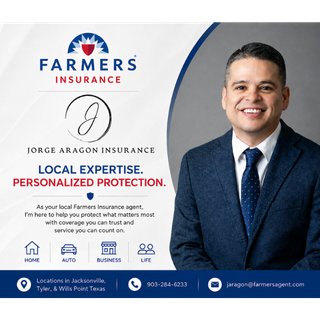
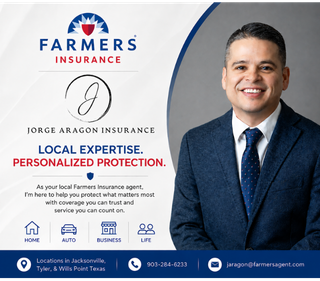
Crop Farmers card, add Board of Directors section
Crop the transparent rounded-corner padding baked into the Farmers
Insurance source image and resize its frame to match the new aspect
ratio exactly, so it fills edge-to-edge with zero cropping.

Add a Board of Directors section between Giving and Champion
Sponsors: nine board members with titles, a divider, and the two
Co-Executive Directors, fully bilingual.

diff --git a/index.html b/index.html
@@ -220,6 +220,71 @@
     </div>
   </section>
 
+  <!-- BOARD OF DIRECTORS -->
+  <section class="section section-alt">
+    <div class="container">
+      <div class="section-head">
+        <span class="eyebrow" data-es="Liderazgo">Leadership</span>
+        <h2 data-es="Junta Directiva">Board of Directors</h2>
+      </div>
+      <div class="board-grid">
+        <div class="board-card">
+          <span class="avatar"><svg width="22" height="22" viewBox="0 0 24 24" fill="none" stroke="currentColor" stroke-width="2"><circle cx="12" cy="8" r="4"/><path d="M4 21a8 8 0 0 1 16 0"/></svg></span>
+          <div><h4>Aaron Martinez</h4><span data-es="Presidente">President</span></div>
+        </div>
+        <div class="board-card">
+          <span class="avatar"><svg width="22" height="22" viewBox="0 0 24 24" fill="none" stroke="currentColor" stroke-width="2"><circle cx="12" cy="8" r="4"/><path d="M4 21a8 8 0 0 1 16 0"/></svg></span>
+          <div><h4>Christie Vazquez</h4><span data-es="Tesorera">Treasurer</span></div>
+        </div>
+        <div class="board-card">
+          <span class="avatar"><svg width="22" height="22" viewBox="0 0 24 24" fill="none" stroke="currentColor" stroke-width="2"><circle cx="12" cy="8" r="4"/><path d="M4 21a8 8 0 0 1 16 0"/></svg></span>
+          <div><h4>Crystal Yañez</h4><span data-es="Secretaria">Secretary</span></div>
+        </div>
+        <div class="board-card">
+          <span class="avatar"><svg width="22" height="22" viewBox="0 0 24 24" fill="none" stroke="currentColor" stroke-width="2"><circle cx="12" cy="8" r="4"/><path d="M4 21a8 8 0 0 1 16 0"/></svg></span>
+          <div><h4>Mike Gentry</h4><span data-es="Miembro de la Junta">Officer</span></div>
+        </div>
+        <div class="board-card">
+          <span class="avatar"><svg width="22" height="22" viewBox="0 0 24 24" fill="none" stroke="currentColor" stroke-width="2"><circle cx="12" cy="8" r="4"/><path d="M4 21a8 8 0 0 1 16 0"/></svg></span>
+          <div><h4>Cris Berlingeri</h4><span data-es="Miembro de la Junta">Officer</span></div>
+        </div>
+        <div class="board-card">
+          <span class="avatar"><svg width="22" height="22" viewBox="0 0 24 24" fill="none" stroke="currentColor" stroke-width="2"><circle cx="12" cy="8" r="4"/><path d="M4 21a8 8 0 0 1 16 0"/></svg></span>
+          <div><h4>Angela Daniels</h4><span data-es="Miembro de la Junta">Officer</span></div>
+        </div>
+        <div class="board-card">
+          <span class="avatar"><svg width="22" height="22" viewBox="0 0 24 24" fill="none" stroke="currentColor" stroke-width="2"><circle cx="12" cy="8" r="4"/><path d="M4 21a8 8 0 0 1 16 0"/></svg></span>
+          <div><h4>Cindy García</h4><span data-es="Miembro de la Junta">Officer</span></div>
+        </div>
+        <div class="board-card">
+          <span class="avatar"><svg width="22" height="22" viewBox="0 0 24 24" fill="none" stroke="currentColor" stroke-width="2"><circle cx="12" cy="8" r="4"/><path d="M4 21a8 8 0 0 1 16 0"/></svg></span>
+          <div><h4>Juan Ovalle</h4><span data-es="Miembro de la Junta">Officer</span></div>
+        </div>
+        <div class="board-card">
+          <span class="avatar"><svg width="22" height="22" viewBox="0 0 24 24" fill="none" stroke="currentColor" stroke-width="2"><circle cx="12" cy="8" r="4"/><path d="M4 21a8 8 0 0 1 16 0"/></svg></span>
+          <div><h4>Ginger Young</h4><span data-es="Miembro de la Junta">Officer</span></div>
+        </div>
+      </div>
+
+      <div class="board-divider" aria-hidden="true"><span>&middot;</span></div>
+
+      <div class="section-head">
+        <span class="eyebrow" data-es="Liderazgo Ejecutivo">Executive Leadership</span>
+        <h3 data-es="Co-Directoras Ejecutivas">Co-Executive Directors</h3>
+      </div>
+      <div class="board-co-directors">
+        <div class="board-card">
+          <span class="avatar"><svg width="22" height="22" viewBox="0 0 24 24" fill="none" stroke="currentColor" stroke-width="2"><circle cx="12" cy="8" r="4"/><path d="M4 21a8 8 0 0 1 16 0"/></svg></span>
+          <div><h4>Lorena Rebagliati</h4><span data-es="Co-Directora Ejecutiva">Co-Executive Director</span></div>
+        </div>
+        <div class="board-card">
+          <span class="avatar"><svg width="22" height="22" viewBox="0 0 24 24" fill="none" stroke="currentColor" stroke-width="2"><circle cx="12" cy="8" r="4"/><path d="M4 21a8 8 0 0 1 16 0"/></svg></span>
+          <div><h4>Josefina Vazquez</h4><span data-es="Co-Directora Ejecutiva">Co-Executive Director</span></div>
+        </div>
+      </div>
+    </div>
+  </section>
+
   <!-- CHAMPION SPONSORS -->
   <section class="section sponsors">
     <div class="container">
@@ -230,12 +295,12 @@
     </div>
     <div class="marquee-wrap">
       <div class="marquee marquee--3">
-        <img class="marquee__item marquee__item--cover" src="assets/img/sponsor-farmers-jorge-aragon.png" width="180" height="180" alt="Farmers Insurance — Jorge Aragon Insurance">
+        <img class="marquee__item marquee__item--cover" src="assets/img/sponsor-farmers-jorge-aragon.png" width="205" height="180" alt="Farmers Insurance — Jorge Aragon Insurance">
         <img class="marquee__item" src="assets/img/sponsor-flowers-davis-immigration.png" width="260" height="180" alt="Flowers Davis Immigration">
         <img class="marquee__item" src="assets/img/sponsor-prosperity-bank.png" width="260" height="180" alt="Prosperity Bank">
       </div>
       <div class="marquee marquee--3 marquee--omega" aria-hidden="true">
-        <img class="marquee__item marquee__item--cover" src="assets/img/sponsor-farmers-jorge-aragon.png" width="180" height="180" alt="">
+        <img class="marquee__item marquee__item--cover" src="assets/img/sponsor-farmers-jorge-aragon.png" width="205" height="180" alt="">
         <img class="marquee__item" src="assets/img/sponsor-flowers-davis-immigration.png" width="260" height="180" alt="">
         <img class="marquee__item" src="assets/img/sponsor-prosperity-bank.png" width="260" height="180" alt="">
       </div>

diff --git a/assets/css/style.css b/assets/css/style.css
@@ -651,6 +651,69 @@ a { color: var(--color-teal); }
   .banner-track { animation: none; }
 }
 
+/* ---------- Board of directors ---------- */
+.section-head h3 { font-size: clamp(1.25rem, 2.1vw, 1.5rem); }
+.board-grid {
+  display: grid;
+  grid-template-columns: repeat(3, 1fr);
+  gap: 20px;
+}
+.board-card {
+  display: flex;
+  align-items: center;
+  gap: 14px;
+  background: var(--color-white);
+  border: 1px solid var(--color-border);
+  border-radius: var(--radius-md);
+  padding: 16px 20px;
+  box-shadow: var(--shadow-card);
+}
+.board-card .avatar {
+  flex: none;
+  width: 46px;
+  height: 46px;
+  border-radius: 50%;
+  background: var(--color-cream-deep);
+  color: var(--color-teal);
+  display: flex;
+  align-items: center;
+  justify-content: center;
+}
+.board-card h4 { margin: 0; font-size: 1rem; }
+.board-card span {
+  display: block;
+  font-family: var(--font-heading);
+  font-weight: 700;
+  font-size: 0.72rem;
+  letter-spacing: 0.06em;
+  text-transform: uppercase;
+  color: var(--color-primary-dark);
+  margin-top: 2px;
+}
+.board-divider {
+  display: flex;
+  align-items: center;
+  justify-content: center;
+  gap: 14px;
+  margin: 48px 0 40px;
+  color: var(--color-text-soft);
+  font-size: 1.5rem;
+}
+.board-divider::before,
+.board-divider::after {
+  content: "";
+  height: 1px;
+  width: 80px;
+  background: var(--color-border);
+}
+.board-co-directors {
+  display: flex;
+  justify-content: center;
+  gap: 20px;
+  flex-wrap: wrap;
+}
+.board-co-directors .board-card { min-width: 260px; }
+
 /* ---------- Champion sponsors ---------- */
 .sponsors { overflow: hidden; }
 .marquee-wrap {
@@ -685,7 +748,7 @@ a { color: var(--color-teal); }
   padding: 14px;
 }
 .marquee__item--cover {
-  width: 180px;
+  width: 205px;
   height: 180px;
   object-fit: cover;
   padding: 0;
@@ -817,6 +880,7 @@ a { color: var(--color-teal); }
   .card-grid { grid-template-columns: repeat(2, 1fr); }
   .value-grid { grid-template-columns: repeat(2, 1fr); }
   .team-grid { grid-template-columns: repeat(2, 1fr); }
+  .board-grid { grid-template-columns: repeat(2, 1fr); }
   .footer-grid { grid-template-columns: repeat(2, 1fr); }
 }
 
@@ -825,6 +889,7 @@ a { color: var(--color-teal); }
   .card-grid { grid-template-columns: 1fr; }
   .value-grid { grid-template-columns: 1fr; }
   .team-grid { grid-template-columns: 1fr; }
+  .board-grid { grid-template-columns: 1fr; }
   .footer-grid { grid-template-columns: 1fr; gap: 32px; }
   .contact-form .field-row { grid-template-columns: 1fr; }
   .cta-banner { padding: 36px 28px; flex-direction: column; align-items: flex-start; }
